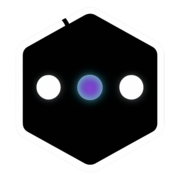
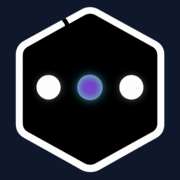
PWA: fond bleu foncé (#0f172a) pour icône écran d'accueil
- Manifest: background_color #ffffff → #0f172a, theme_color #1890ff → #1e3a5f
- index.html: ajout meta theme-color, status-bar-style black-translucent
- Icônes PNG: fond transparent → #0f172a (pwa-192, pwa-512, apple-touch-icon)

diff --git a/src/api-server-clean.ts b/src/api-server-clean.ts
@@ -452,8 +452,8 @@ if (process.env.NODE_ENV === 'production') {
         scope: '/',
         display: 'standalone',
         orientation: 'portrait',
-        theme_color: '#1890ff',
-        background_color: '#ffffff',
+        theme_color: '#1e3a5f',
+        background_color: '#0f172a',
         icons: [
           { src: '/pwa-192x192.png', sizes: '192x192', type: 'image/png' },
           { src: '/pwa-512x512.png', sizes: '512x512', type: 'image/png' },
@@ -473,8 +473,8 @@ if (process.env.NODE_ENV === 'production') {
           scope: '/',
           display: 'standalone',
           orientation: 'portrait',
-          theme_color: (config?.primaryColor as string) || '#1890ff',
-          background_color: '#ffffff',
+          theme_color: (config?.primaryColor as string) || '#1e3a5f',
+          background_color: '#0f172a',
           icons: [
             { src: '/pwa-192x192.png', sizes: '192x192', type: 'image/png' },
             { src: '/pwa-512x512.png', sizes: '512x512', type: 'image/png' },

diff --git a/index.html b/index.html
@@ -8,8 +8,9 @@
     <meta name="viewport" content="width=device-width, initial-scale=1.0, maximum-scale=5.0, user-scalable=yes" />
     <meta name="mobile-web-app-capable" content="yes" />
     <meta name="apple-mobile-web-app-capable" content="yes" />
-    <meta name="apple-mobile-web-app-status-bar-style" content="default" />
+    <meta name="apple-mobile-web-app-status-bar-style" content="black-translucent" />
     <meta name="apple-mobile-web-app-title" content="Zhiive" />
+    <meta name="theme-color" content="#0f172a" />
     <link rel="manifest" href="/manifest.webmanifest" />
     <title>Zhiive — Votre ruche vivante.</title>
     <!-- 🔧 Configuration d'environnement runtime INLINE (AVANT tout code) -->
